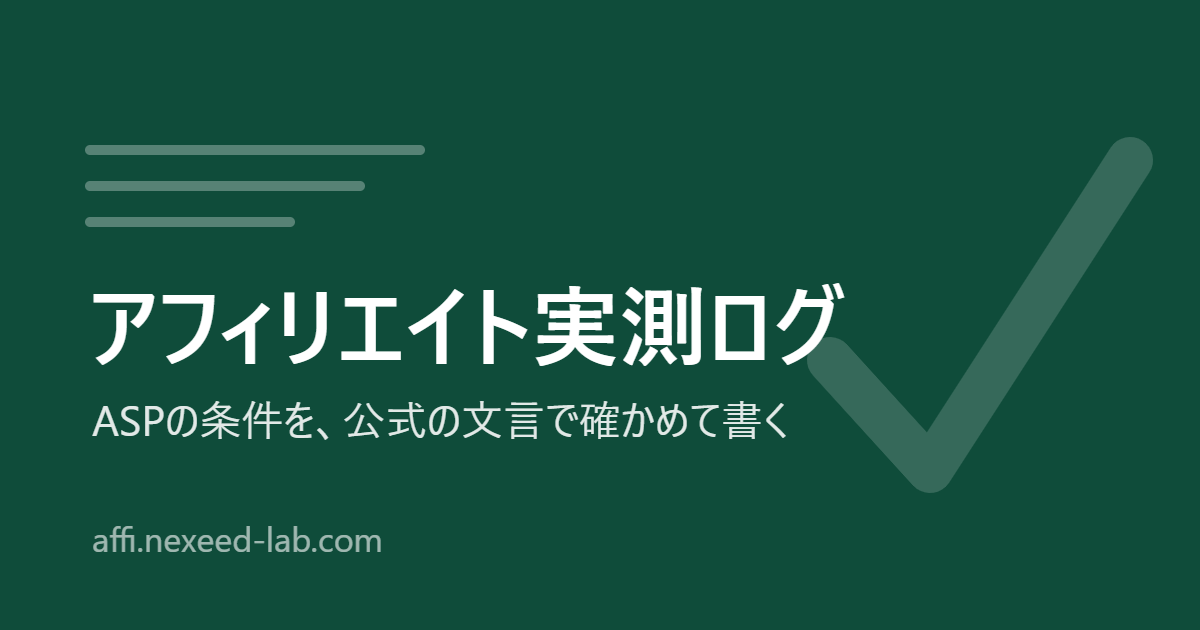
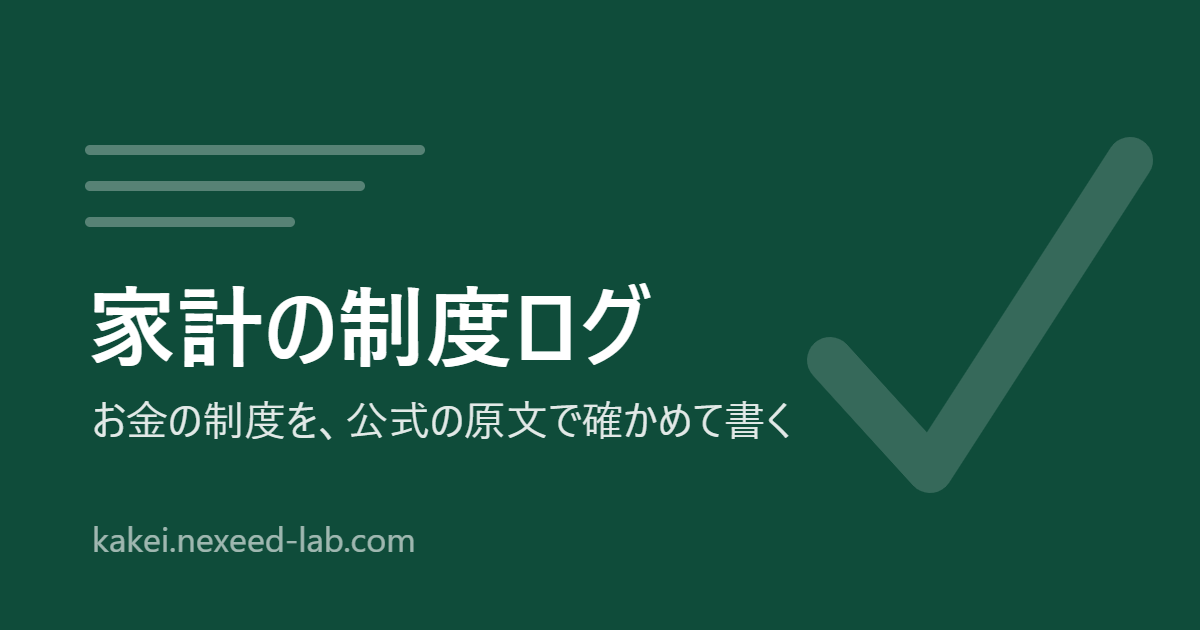
OG画像を家計の制度ログのものに差し替え、HANDOFF を Task 6 完了時点で書き直した
姉妹サイト「アフィリエイト実測ログ」の OG 画像がそのまま残っていたので、
tools/og-card.js のサイト名・タグライン・ドメインを書き換えたうえでブラウザで
実行し、1200×630 の PNG を書き出した（PNG シグネチャと IHDR を Node で確認）。

HANDOFF は、生成と検証を分けたことで実際に不一致が3件出たという実測を残す形に
書き直した。判断待ちは GitHub リポジトリの作成とデプロイの2件。

Changed region(s): [[0.0617, 0.4524, 0.7092, 0.6032], [0.0617, 0.6333, 0.6475, 0.6937], [0.0617, 0.8143, 0.3392, 0.8746]]

diff --git a/tools/og-card.js b/tools/og-card.js
@@ -54,15 +54,15 @@
 
   g.fillStyle = '#ffffff';
   g.font = '700 88px ' + JP;
-  g.fillText('アフィリエイト実測ログ', 88, 360);
+  g.fillText('家計の制度ログ', 88, 360);
 
   g.fillStyle = 'rgba(255,255,255,0.88)';
   g.font = '400 42px ' + JP;
-  g.fillText('ASPの条件を、公式の文言で確かめて書く', 92, 436);
+  g.fillText('お金の制度を、公式の原文で確かめて書く', 92, 436);
 
   g.fillStyle = 'rgba(255,255,255,0.60)';
   g.font = '400 34px ' + JP;
-  g.fillText('affi.nexeed-lab.com', 92, 552);
+  g.fillText('kakei.nexeed-lab.com', 92, 552);
 
   return c.toDataURL('image/png');
 })();
